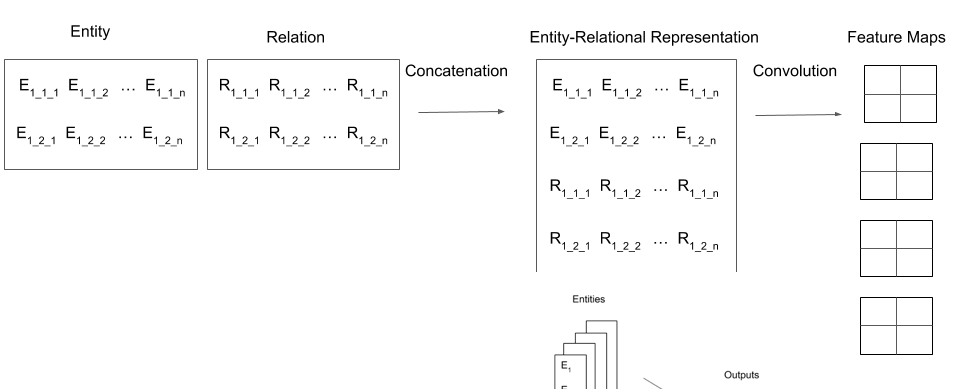
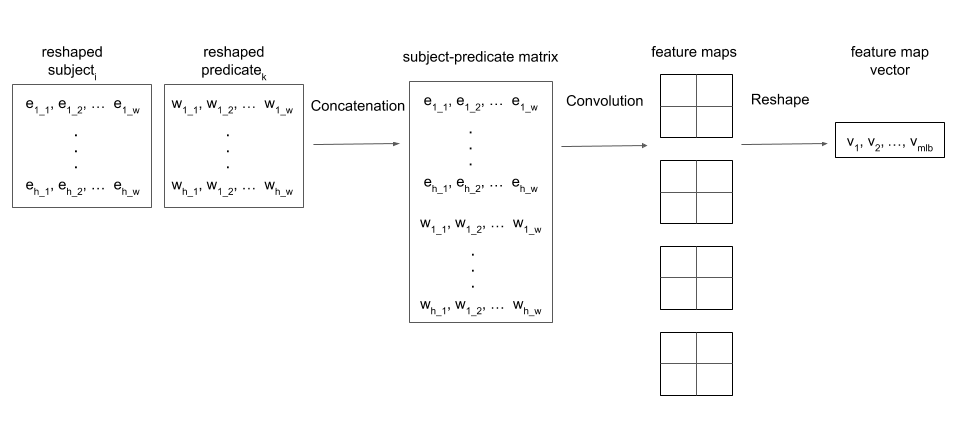
Chapter3 - Review comments 2 - Section3.2
Iterate ConvE backpropagation.

diff --git a/Chapter3/chapter3.tex b/Chapter3/chapter3.tex
@@ -143,22 +143,25 @@ ConvE introduced the convolutional operator to neural tensor factorisation \unsk
 	\psi_r(e_s, \; e_o) = g(vec(f(\left [ \overline{e_s}; \; \overline{r_r} \right ]*w))W)e_o
 \end{equation}
 
-\noindent where $ \psi_r $ is the relational score, $ e_s \in \mathbb{R}^{n \times 1} $ is the subject, $ e_o \in \mathbb{R}^{n \times 1} $ is the object, and $ r \in \mathbb{R}^{n \times 1} $ is the predicate. $ \overline{e_s} \in \mathbb{R}^{n_w \times n_h} $ is a $ 2D $ reshaping of $ e_s $, and similarly $ \overline{r_r} \in \mathbb{R}^{n_w \times n_h} $ is a $ 2D $ reshaping of $ r_r $, where $ n = n_wn_h $. $ f $ is the lengthwise concatenation operation between $ \overline{e_s} $ and $ \overline{r_r} $, $ w $ contains the $ 2D $ convolutional filters, and $ * $ is the convolutional operator.  $ F \in \mathbb{R}^{m \times l \times b} $, where $ m $ are the number of $ 2D $ feature maps, and $ l $ and $ b $ are the feature map dimensions. $ vec $ reshapes $ F $ into a vector $ v \in \mathbb{R}^{mlb}$ which is passed through a fully connected layer parameterised by $ W \in \mathbb{R}^{mlb \times n} $, and generates a vector $ h \in \mathbb{R}^{1 \times n} $ which is passed through $ g $ a ReLU nonlinearity. Finally the inner product is taken with this vector and $ e_o $ to compute a relational score. ConvE is thus a convolutional tensor factorisation. 
+\noindent where $ \psi_r $ is the relational score, $ e_s \in \mathbb{R}^{n \times 1} $ is the subject, $ e_o \in \mathbb{R}^{n \times 1} $ is the object, and $ r \in \mathbb{R}^{n \times 1} $ is the predicate. $ \overline{e_s} \in \mathbb{R}^{n_w \times n_h} $ is a $ 2D $ reshaping of $ e_s $, and similarly $ \overline{r_r} \in \mathbb{R}^{n_w \times n_h} $ is a $ 2D $ reshaping of $ r_r $, where $ n = n_wn_h $. $ f $ is the lengthwise concatenation operation between $ \overline{e_s} $ and $ \overline{r_r} $, $ w $ contains the $ 2D $ convolutional filters, and $ * $ is the convolutional operator.  $ F \in \mathbb{R}^{m \times l \times b} $, where $ m $ are the number of $ 2D $ feature maps, and $ l $ and $ b $ are the feature map dimensions. $ vec $ reshapes $ F $ into a vector $ v \in \mathbb{R}^{1 \times mlb}$ which is passed through a fully connected layer parameterised by $ W \in \mathbb{R}^{mlb \times n} $, and generates a vector $ h \in \mathbb{R}^{1 \times n} $ which is passed through $ g $ a ReLU nonlinearity. Finally the inner product is taken with this vector and $ e_o $ to compute a relational score. ConvE is thus a convolutional tensor factorisation. Figure 3.4 illustrates the ConvE forward pass.
 
 \begin{figure}[H]
    	\centering
     	\includegraphics[width=0.7\textwidth, height=0.4\textwidth]{convolutional_entity_representations_final}
-	\caption{Convolutional entity representations.}
+	\captionsetup{justification=centering}
+	\caption{ConvE forward pass which computes a relational score $ s_{i,k,j} $ between subject $ i $, predicate $ k $ and object $ j $.}
 \end{figure}
 
 \newpage
 
-\noindent The computed relational probability is defined as follows: 
+\noindent The generated relational probability is defined as follows: 
 \begin{equation}
 	\mathbb{P} = \sigma(\psi_r(e_s, \; e_o)) 
 \end{equation}
 
-\noindent The binary cross-entropy objective is minimised during training. This objective is particularly effective as we expect only a single true class (a single object from the set of all entities) during inference, modelled as $1$, and every other class to be false, $0$. The objective is defined as follows:
+\noindent The binary cross-entropy loss is minimised during training. This loss function is particularly appropriate as we expect only a single object to belong to the fact (subject-predicate-object) and generate a probability close to $ 1 $, and every other object to not belong to the fact, generating a probability close to $ 0 $. \par
+
+\noindent The loss function is defined as follows:
 \begin{equation}
 	L(p, \; t) =  -\frac{1}{N}\sum_i(t_i \cdot log(p_i) + (1 - t_i) \cdot log(1 - p_i))
 \end{equation}
